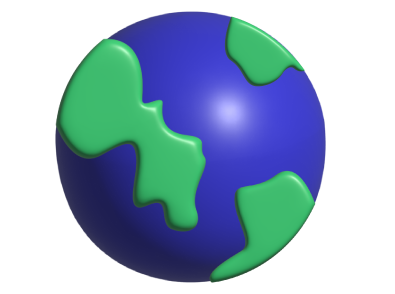
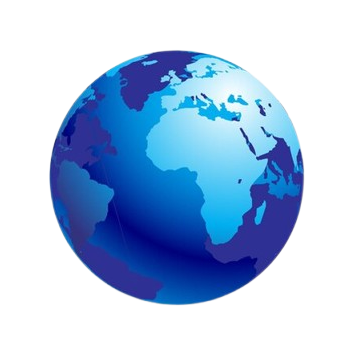
Enhance email functionality and error handling in contact API
- Added checks for SMTP configuration to ensure email service is properly set up.
- Implemented SMTP connection verification with error handling for improved reliability.
- Updated error responses to provide clearer messages for email sending failures.
- Changed icon in AdvantageSection from 'earth1.png' to 'earth.png' for consistency.
- Removed unused image files 'earth1.jpg' and 'earth.jpg' to clean up assets.

diff --git a/app/api/contact/route.ts b/app/api/contact/route.ts
@@ -8,16 +8,38 @@ export async function POST(req: NextRequest) {
       return NextResponse.json({ error: 'Missing required fields.' }, { status: 400 });
     }
 
+    // Check if SMTP credentials are configured
+    if (!process.env.SMTP_HOST || !process.env.SMTP_USER || !process.env.SMTP_PASS) {
+      console.error('Missing SMTP configuration:', {
+        host: !!process.env.SMTP_HOST,
+        user: !!process.env.SMTP_USER,
+        pass: !!process.env.SMTP_PASS
+      });
+      return NextResponse.json({ 
+        error: 'Email service not configured. Please check SMTP settings.' 
+      }, { status: 500 });
+    }
+
     // SMTP config from environment variables
     const transporter = nodemailer.createTransport({
       host: process.env.SMTP_HOST,
       port: Number(process.env.SMTP_PORT) || 587,
-      secure: Number(process.env.SMTP_PORT) === 465,
+      secure: process.env.SMTP_SECURE === 'true' || Number(process.env.SMTP_PORT) === 465,
       auth: {
         user: process.env.SMTP_USER,
         pass: process.env.SMTP_PASS,
       },
     });
+
+    // Verify SMTP connection
+    try {
+      await transporter.verify();
+    } catch (verifyError) {
+      console.error('SMTP connection verification failed:', verifyError);
+      return NextResponse.json({ 
+        error: 'Failed to connect to email server. Please check SMTP settings.' 
+      }, { status: 500 });
+    }
 
     const info = await transporter.sendMail({
       from: process.env.SMTP_FROM || process.env.SMTP_USER,
@@ -29,6 +51,9 @@ export async function POST(req: NextRequest) {
 
     return NextResponse.json({ success: true, messageId: info.messageId });
   } catch (error) {
-    return NextResponse.json({ error: error instanceof Error ? error.message : 'Unknown error' }, { status: 500 });
+    console.error('Email sending error:', error);
+    return NextResponse.json({ 
+      error: error instanceof Error ? error.message : 'Unknown error occurred while sending email' 
+    }, { status: 500 });
   }
 } 

diff --git a/components/home/advantage-section.tsx b/components/home/advantage-section.tsx
@@ -3,7 +3,7 @@ import Image from 'next/image';
 
 const advantages = [
   {
-    icon: "/earth1.png",
+    icon: "/earth.png",
     title: "World's first non-expiry water",
     description: "Our revolutionary water that never expires, ensuring unmatched quality and freshness for decades, making it a unique choice in the modern world today."
   },
